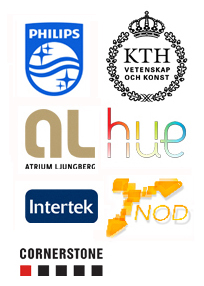
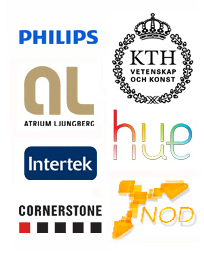
Update branded template per request

diff --git a/templates/game/base-playthehouse.html b/templates/game/base-playthehouse.html
@@ -170,10 +170,10 @@
         <div>
           <ul class="link-list">
             <li>Read about <a href="http://hakanlidbo.com/archives/3740">Play the House</a></li>
-            <li>This project is created with <a href="http://www2.meethue.com/en-US/">Philips Hue</a></li>
+            <li>This project is created with <a href="http://www2.meethue.com/en-xx/">Philips Hue</a></li>
             <li><a href="http://kistanod.se/en/">Read about Nod</a></li>
             <li><a href="http://www.atriumljungberg.se/en/">Read about Atrium Ljungberg</a></li>
-            <li>With kind help from <a href="http://www.intertek.se/">Intertek</a></li>
+            <li>With kind help from <a href="http://www.intertek.se/">Intertek</a> and <a href="http://cornerstone.se">Cornerstone</a></li>
             <li><a href="#">Team SMAB / KTH</a></li>
             <li><a href="http://hakanlidbo.com/">Håkan Lidbo</a></li>
             <li class="mail">@ <a href="mailto:hakan@hakanlidbo.com">Contact</a></li>
